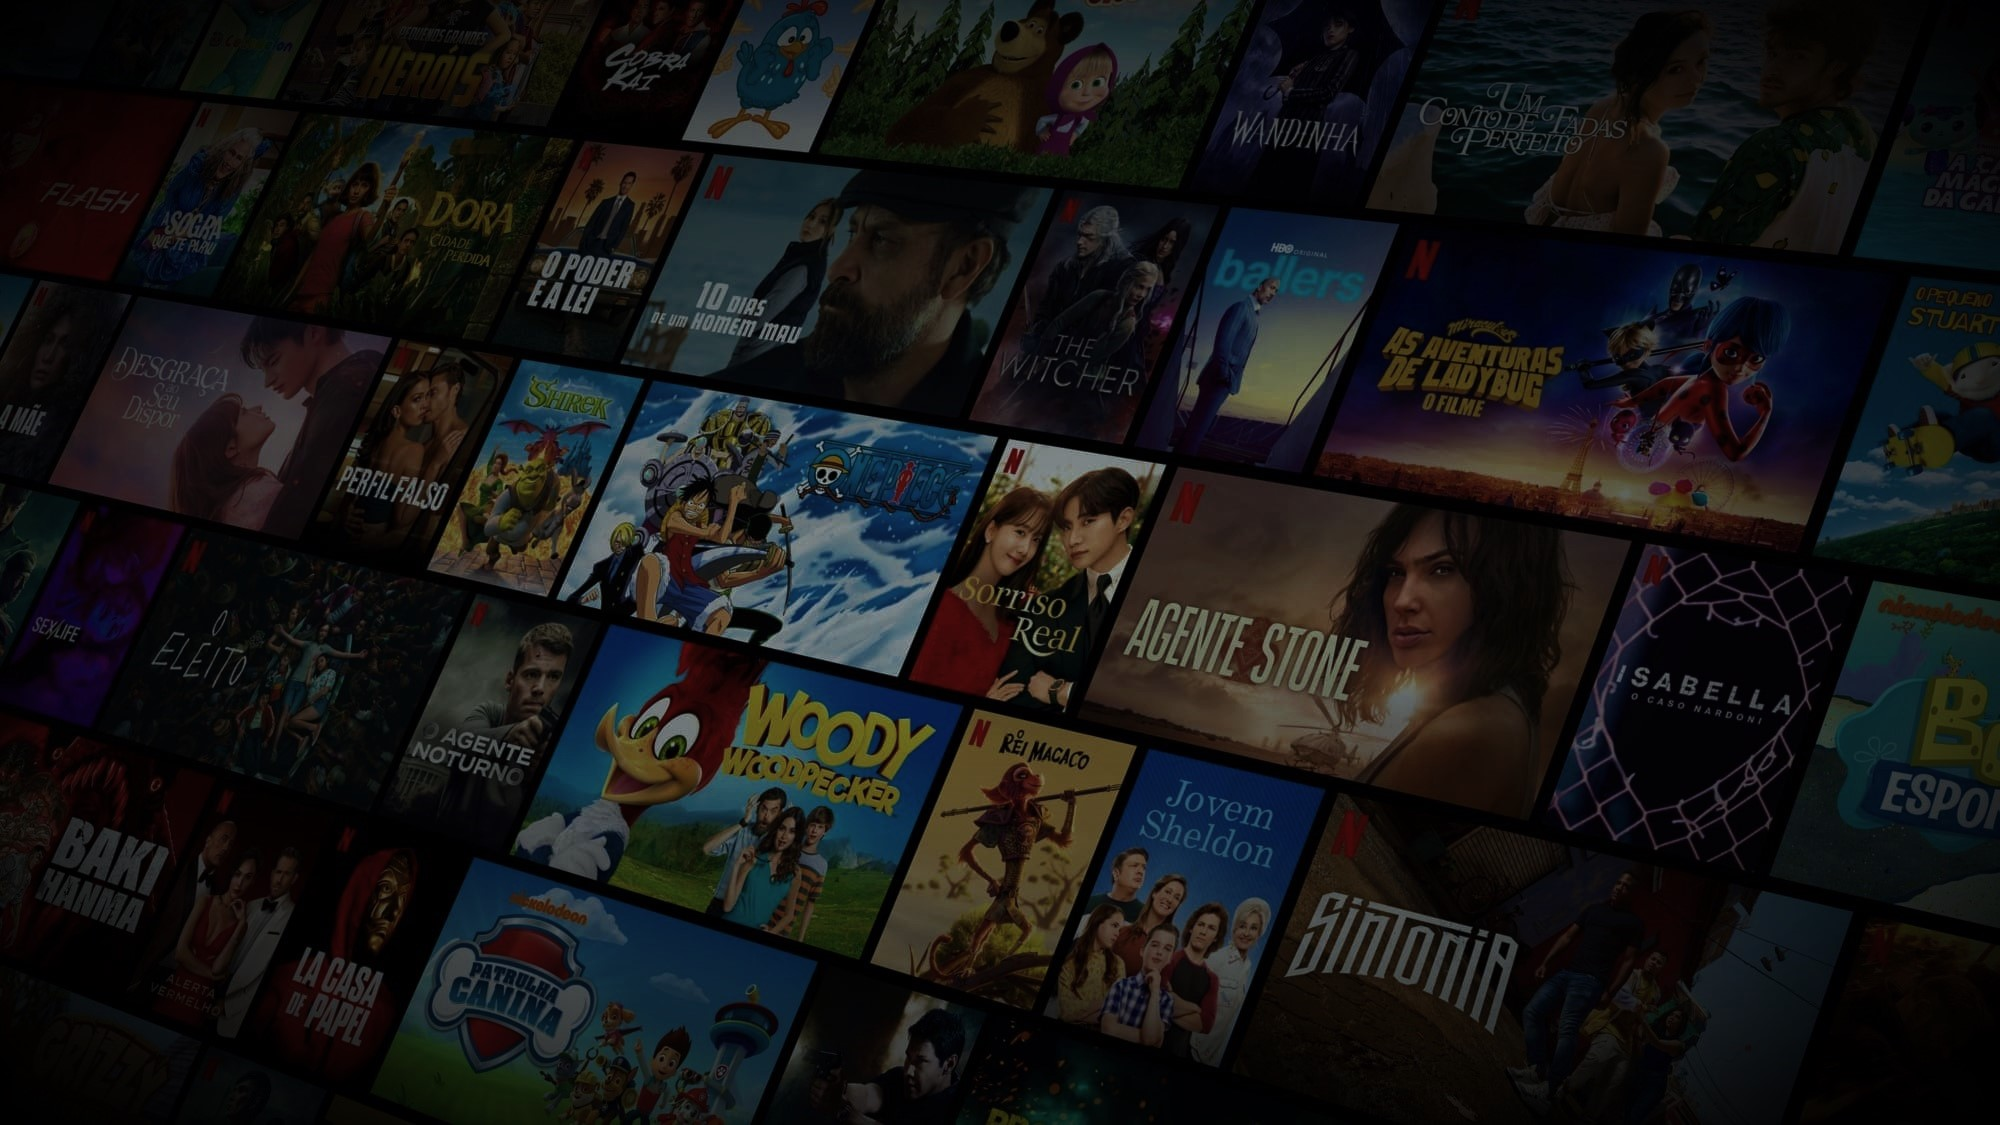
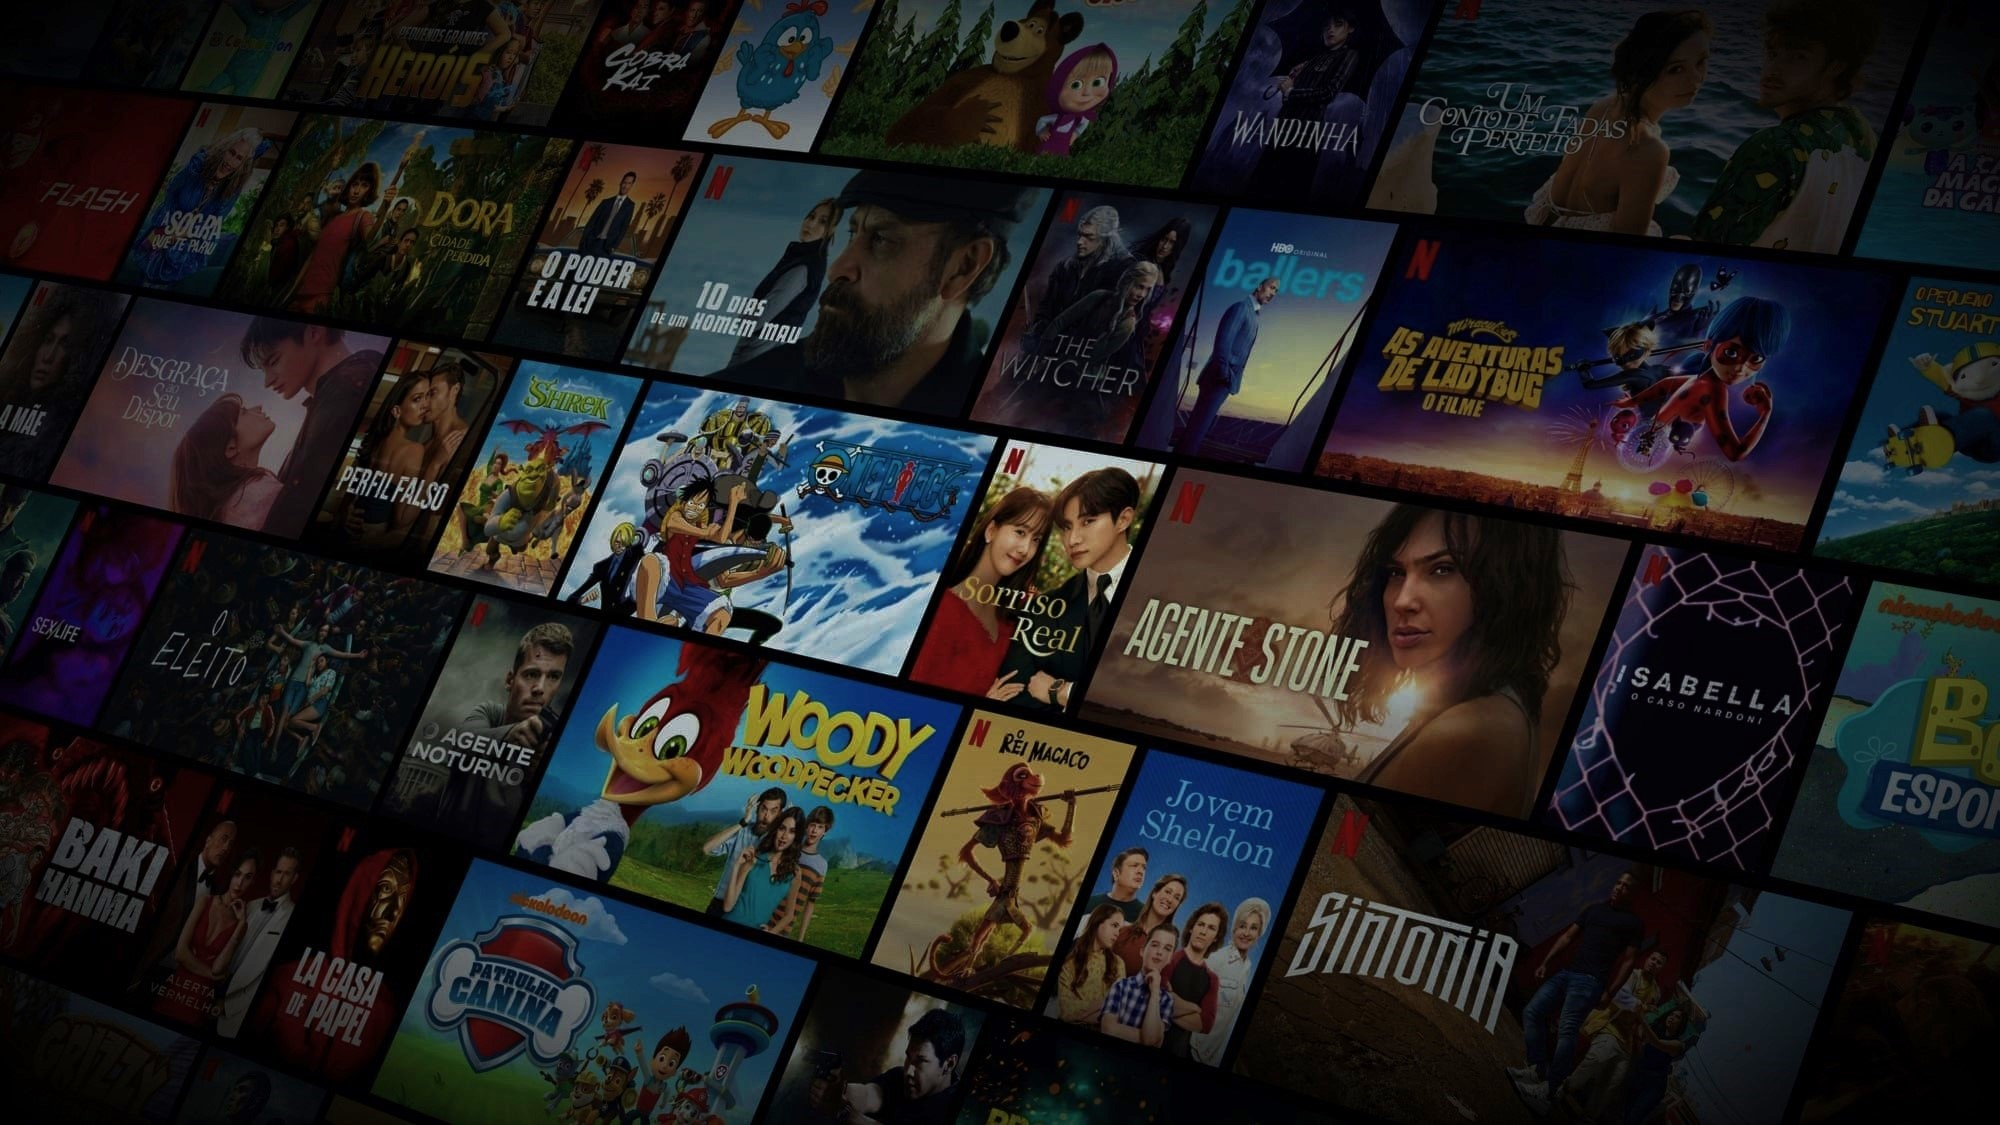
estilo da página home quase pronta

diff --git a/index.html b/index.html
@@ -7,11 +7,13 @@
     <link rel="stylesheet" href="./bootstrap/css/bootstrap.min.css">
     <!-- CSS custom -->
     <link rel="stylesheet" href="./css/style.css">
+    <!-- Fontawesome -->
+    <script src="https://kit.fontawesome.com/574d869779.js" crossorigin="anonymous"></script>
     <title>Netflix Brasil - assistir a séries online, assistir a filmes online</title>
     <link rel="shortcut icon" href="./imagens/netflix.png" type="image/x-icon">
 </head>
 <body>
-    <div id="container" >
+    <div id="container" style="text-align:center;">
         <div id="cima">
             <div class="container">
                <nav>
@@ -19,7 +21,10 @@
                         <img src="./imagens/netflix (1).png" alt="Netflix" width="150px">
                    </a>
                    <div id="navbar-direita">
-                        <input type="text" value="Português">
+                        <select class="idioma">
+                            <option>Português</option>
+                            <option>English</option>
+                        </select>
                         <button id="entrar">
                             Entrar
                         </button>                        
@@ -39,7 +44,10 @@
                </div>
                 <div id="forms">
                     <input type="text">
-                    <button>Vamos lá</button>
+                    <button>
+                        Vamos lá
+                        <i class="fa-solid fa-angle-right" style="color: #ffffff;"></i>
+                    </button>
                 </div>
             </div>
         </div>
@@ -132,12 +140,81 @@
             </p>
             <div id="forms">
                 <input type="text">
-                <button>Vamos lá</button>
+                <button>
+                    Vamos lá
+                    <i class="fa-solid fa-angle-right" style="color: #ffffff;"></i>
+                </button>
             </div>
         </div>
-        <footer class="caixa">
-            rodapé
-        </footer>
+        <div class="caixa rodape">
+            <footer>
+                <div class="footer-div">
+                    Dúvidas? Ligue <a>0800 591 2876</a>
+                </div>
+                <ul id="rodape-lista">
+                    <li><a>
+                        Perguntas frequentes
+                    </a></li>
+                    <li class="items-direita"><a>
+                        Conta
+                    </a></li>
+                    <li class="items-direita"><a>
+                        relações com investidores
+                    </a></li>
+                    <li class="items-direita"><a>
+                        resgatar cartão pré-pago
+                    </a></li>
+                    <li><a>
+                        formas de assistir
+                    </a></li>
+                    <li class="items-direita"><a>
+                        privacidade
+                    </a></li>
+                    <li class="items-direita"><a>
+                        informações corporativas
+                    </a></li>
+                    <li class="items-direita"><a>
+                        teste de velocidade
+                    </a></li>
+                    <li><a>
+                        só na netflix
+                    </a></li>
+                    <li class="items-direita"><a>
+                        central de ajuda
+                    </a></li>
+                    <li class="items-direita"><a>
+                        media center
+                    </a></li>
+                    <li class="items-direita"><a>
+                        carreiras
+                    </a></li>
+                    <li><a>
+                        comprar cartão pré-pago
+                    </a></li>
+                    <li class="items-direita"><a>
+                        termos de uso
+                    </a></li>
+                    <li class="items-direita"><a>
+                        preferências decookies
+                    </a></li>
+                    <li class="items-direita"><a>
+                        entre em contato
+                    </a></li>
+                    <li><a>
+                        avisos legais
+                    </a></li>
+                </ul>
+                <div id="div-select">
+                    <select class="idioma">
+                        <option>Português</option>
+                        <option>English</option>
+                    </select>
+                </div>
+                <div class="footer-div">
+                    Netflix Brasil
+                </div>
+            </footer>
+        </div>
     </div>
 
     <!-- jQuery first, then Popper.js, then Bootstrap JS -->

diff --git a/css/style.css b/css/style.css
@@ -24,7 +24,7 @@ body{
     height: 100%;
 }
 #cima{
-    background: #000 url("../imagens/fundo-netflix-escuro.jpg") fixed;
+    background: url("../imagens/fundo-netflix.jpg") fixed;
     padding-bottom: 150px;
     text-align: center;
 	background-size: cover;
@@ -32,6 +32,7 @@ body{
 	-moz-background-size: cover;
 	-o-background-size: cover;
     -ms-background-size:cover;
+    text-shadow: 0 0 0 0.1;
 }
 #caixa-titulo{
     color: #fff;
@@ -53,7 +54,7 @@ body{
     color:#fff;
 }
 #forms button{
-    font-size: 20px;
+    font-size: 24px;
     background-color:#E50914;
     color:#fff;
     padding: 8px 25px;
@@ -77,7 +78,7 @@ body{
     text-align: center;
     display: inline-block;
 }
- button:focus, input:focus{
+button:focus, input:focus{
     outline: none;
 }
 #forms input:focus{
@@ -159,7 +160,50 @@ h1#perguntas{
 p#fim-pag{
     font-size: 20px;
 }
-footer.caixa{
-    height: 10vh;
+footer{
     margin-bottom: 0;
+    color:#9a9a9a;
+    display: inline-block;
+}
+footer a{
+    text-transform: capitalize;
+    color:#9a9a9a;
+}
+footer ul{
+    display: grid;
+    grid-template-columns: repeat(4,1fr);
+    list-style: none;
+    text-align: justify;
+}
+footer ul li.items-direita{
+    margin-left: 30px;
+}
+footer div.footer-div{
+    text-align: justify;
+    margin-bottom: 20px;
+}
+div.rodape{
+    margin: 0;
+}
+div.rodape div.footer-div a, div.rodape ul#rodape-lista a{
+    text-decoration: underline;
+    cursor: pointer;
+    font-size: 14px;
+}
+div.rodape div.footer-div a:hover{
+    text-decoration: underline;
+}
+select.idioma{
+    background-color: #0F0F0F;
+    outline: 1px #2D2D2D;
+    border-radius: 5px;
+    line-height: 20px;
+    font-size: 16px;
+    color:#fff;
+    padding: 5px 10px;
+}
+div#div-select{
+    text-align: justify;
+    margin-bottom: 20px;
+    margin-top: 20px;
 }
